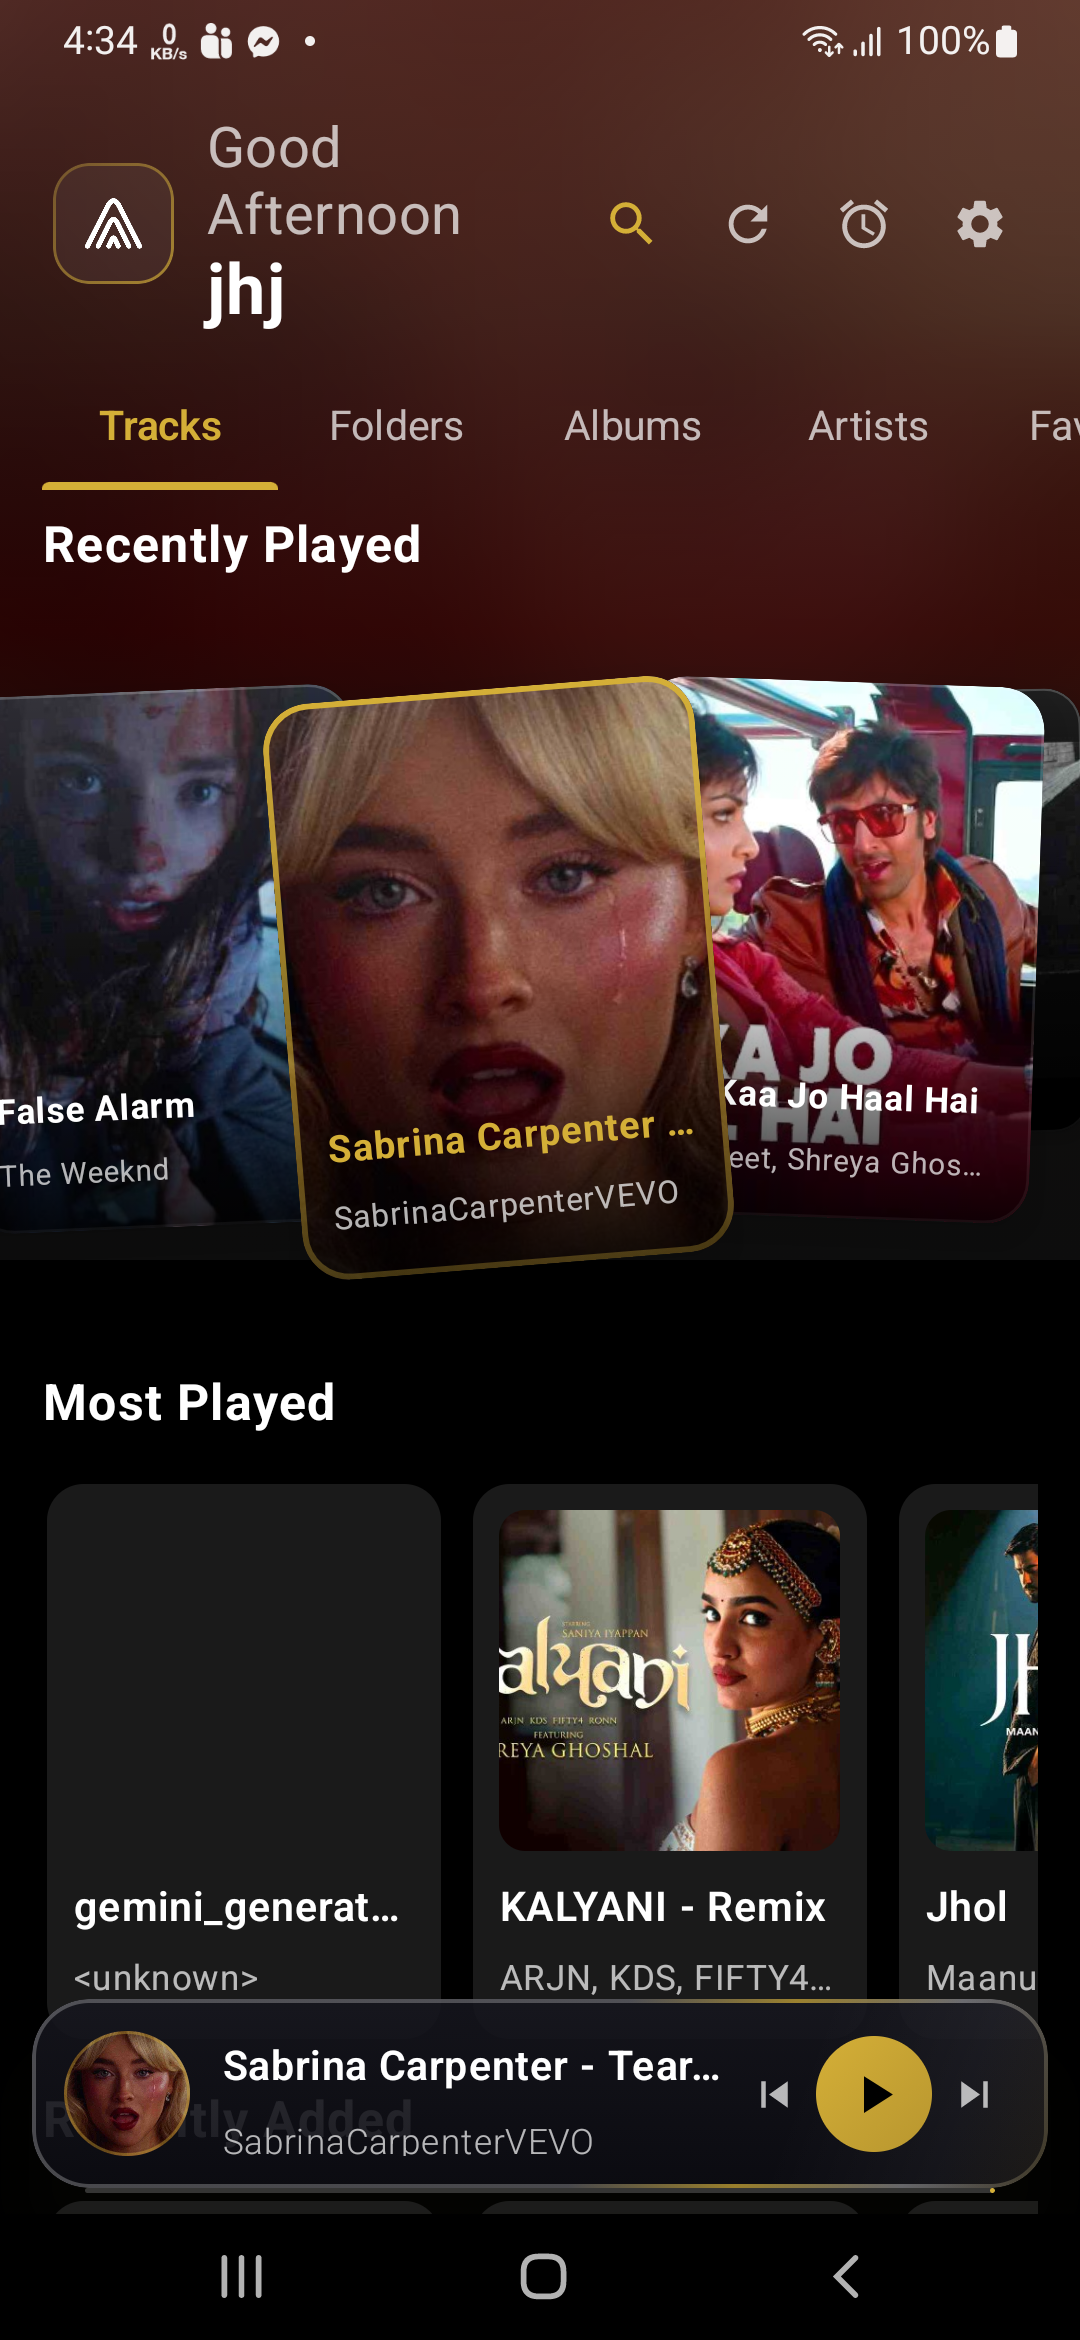
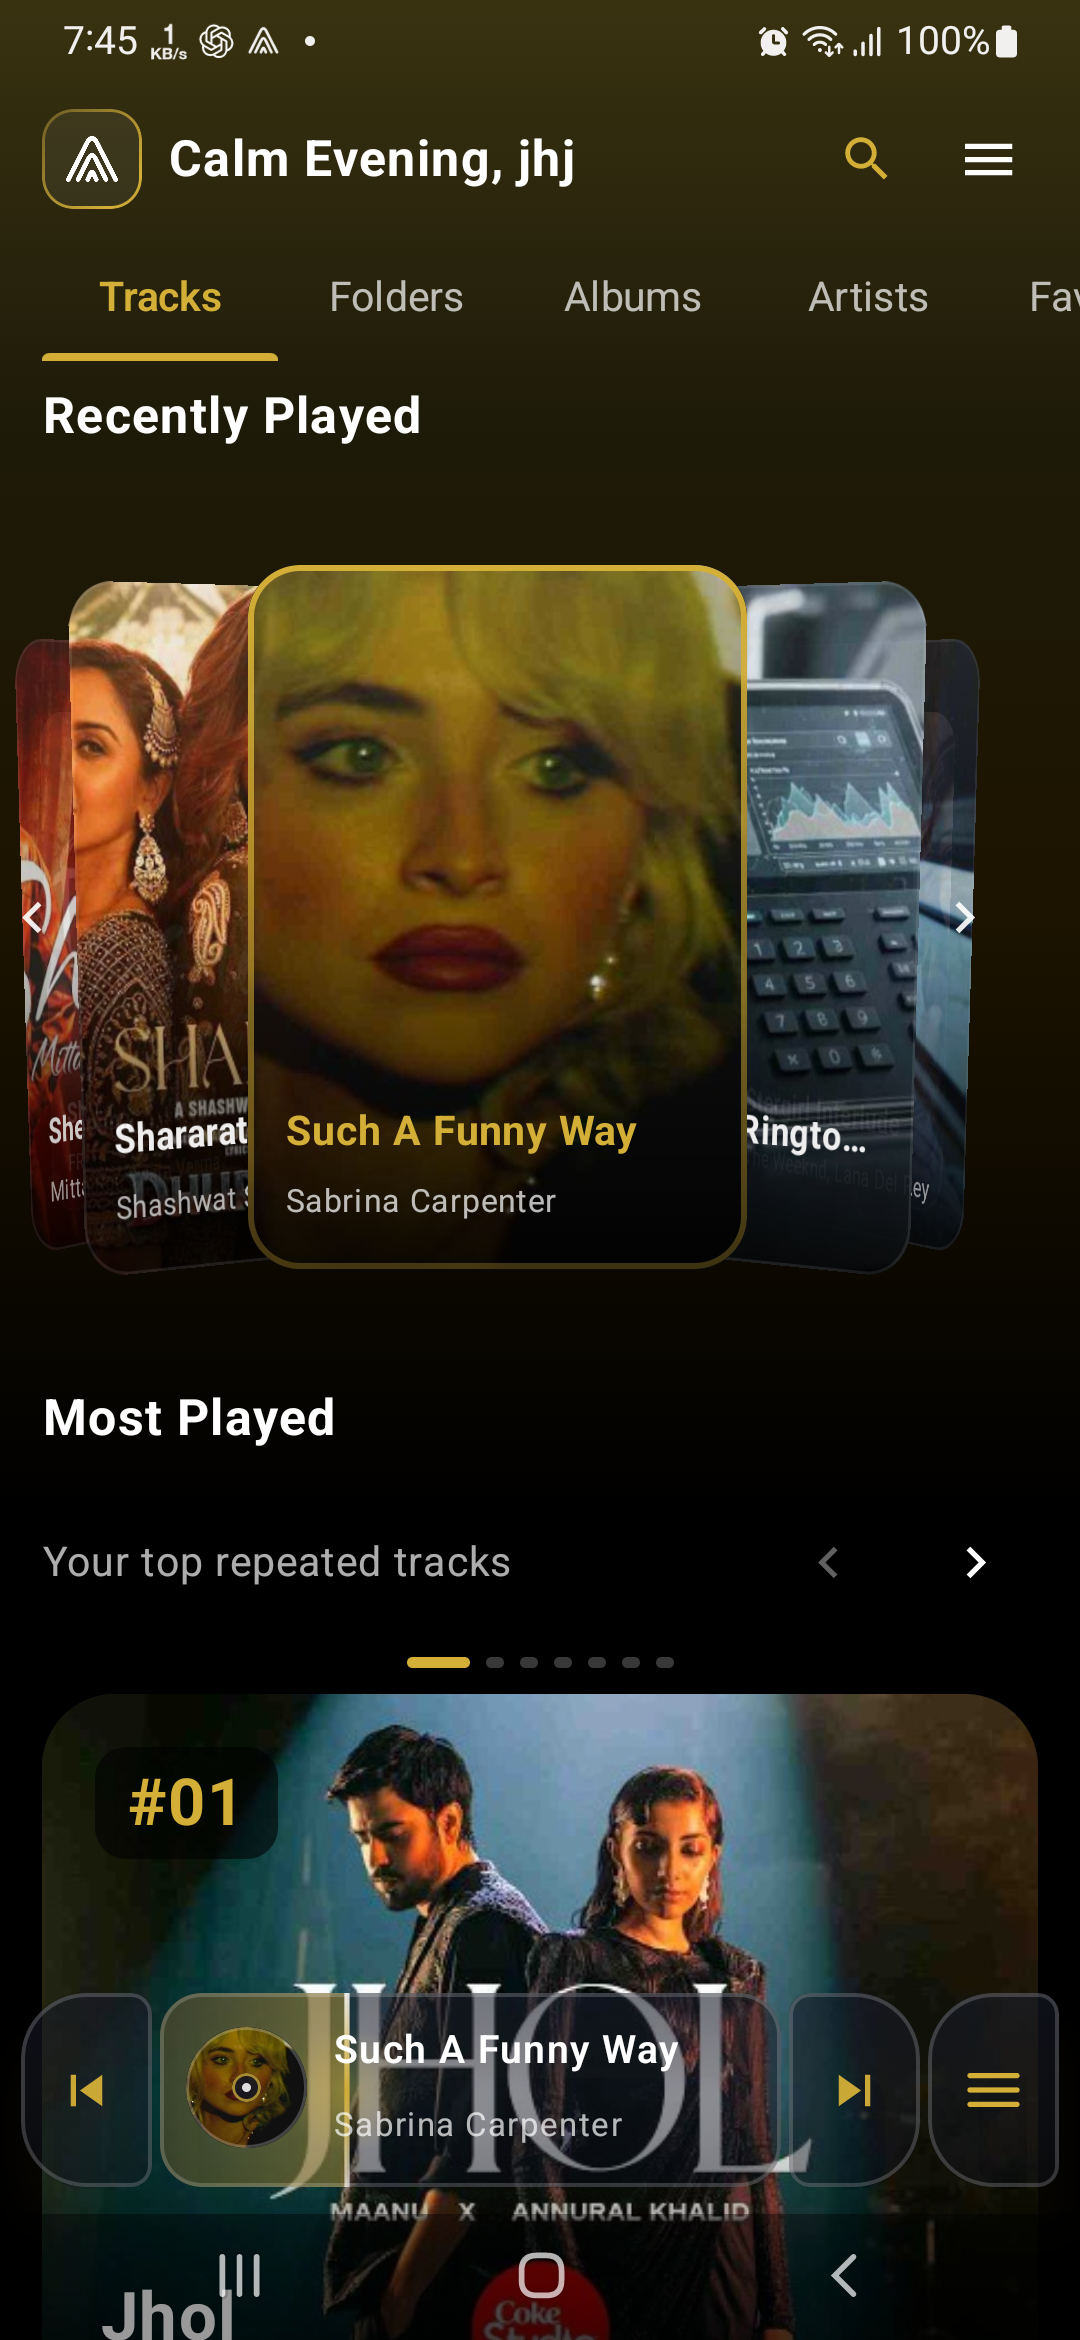
feat(showcase): update live device screenshots and showcase README for v9.1.0 Liquid Glass release

diff --git a/README.md b/README.md
@@ -3,11 +3,11 @@
 </p>
 
 <p align="center">
-  <a href="https://github.com/TanjilHasan-Himel/app/releases/latest"><img src="https://img.shields.io/badge/Release-v9.0.77-D4AF37?style=for-the-badge&logo=android&logoColor=white" alt="Latest Release"></a>
+  <a href="https://github.com/TanjilHasan-Himel/app/releases/latest"><img src="https://img.shields.io/badge/Release-v9.1.0-D4AF37?style=for-the-badge&logo=android&logoColor=white" alt="Latest Release"></a>
   <img src="https://img.shields.io/badge/Platform-Android_8.0+-3DDC84?style=for-the-badge&logo=android&logoColor=white" alt="Android 8.0+">
   <img src="https://img.shields.io/badge/Engine-Media3_ExoPlayer-FF6F00?style=for-the-badge" alt="Media3 ExoPlayer">
   <img src="https://img.shields.io/badge/UI-Jetpack_Compose_1.7+-4285F4?style=for-the-badge&logo=jetpackcompose&logoColor=white" alt="Jetpack Compose">
-  <img src="https://img.shields.io/badge/Size-3.25_MB-blue?style=for-the-badge" alt="Size 3.25MB">
+  <img src="https://img.shields.io/badge/Size-3.3_MB-blue?style=for-the-badge" alt="Size 3.3MB">
   <img src="https://img.shields.io/badge/Architecture-Closed--Source_App-9C27B0?style=for-the-badge" alt="Closed Source App">
   <img src="https://img.shields.io/badge/Privacy-100%25_Offline-00E676?style=for-the-badge" alt="Privacy First">
   <img src="https://img.shields.io/badge/Ads-Zero_Ads-red?style=for-the-badge" alt="Zero Ads">
@@ -28,7 +28,7 @@
 
 <p align="center">
   <a href="https://github.com/TanjilHasan-Himel/app/releases">
-    <img src="https://img.shields.io/badge/📥_Download_Latest_APK-v9.0.77-gold?style=for-the-badge&labelColor=1a1a1a" height="44">
+    <img src="https://img.shields.io/badge/📥_Download_Latest_APK-v9.1.0-gold?style=for-the-badge&labelColor=1a1a1a" height="44">
   </a>
 </p>
 
@@ -36,9 +36,9 @@
 
 ## 🌟 Overview
 
-**Audia Player** (formerly *PlayTime*) is a next-generation, high-performance offline music player built for modern Android devices. Designed from the ground up with **Jetpack Compose 1.7+** and **AndroidX Media3**, Audia merges glassmorphic aesthetics, sound-reactive ambient bloom, and an audiophile-grade playback engine without advertisements, telemetry, or battery drain.
+**Audia Player** is a next-generation, high-performance offline music player and audio workstation engineered for modern Android devices. Built entirely from the ground up using **Jetpack Compose 1.7+** and **AndroidX Media3**, Audia combines glassmorphic aesthetics, sound-reactive ambient bloom, and an audiophile-grade playback engine — with **zero advertisements, zero background trackers, and zero telemetry**.
 
-Whether you're listening to high-resolution FLAC audio, following along with millisecond-accurate synchronized lyrics, looping complex solos with the precision A-B looper, or inspecting acoustic metadata in the Song Garage, Audia is crafted for true audio enthusiasts.
+From high-resolution 24-bit/192kHz FLAC playback to millisecond-synchronized lyrics, musician-grade A-B looping, real-time Biquad DSP equalization, global internet radio streaming, and a signature **modular 4-piece floating liquid glass mini-player**, Audia is purpose-built for listeners who demand uncompromised fidelity and craftsmanship.
 
 ---
 
@@ -48,38 +48,38 @@ Whether you're listening to high-resolution FLAC audio, following along with mil
   <table>
     <tr>
       <td align="center" width="25%">
-        <strong>🎨 Now Playing & Stage</strong><br><br>
-        <img src="assets/screenshots/player_screen.png" alt="Player Screen" width="220">
+        <strong>📀 Home & Liquid MiniPlayer</strong><br><br>
+        <img src="assets/screenshots/home_screen.png" alt="Home Screen & 4-Piece Liquid Glass MiniPlayer" width="220">
+      </td>
+      <td align="center" width="25%">
+        <strong>🎨 Now Playing & Bloom Stage</strong><br><br>
+        <img src="assets/screenshots/player_screen.png" alt="Now Playing Screen" width="220">
       </td>
       <td align="center" width="25%">
         <strong>📜 Real-Time Synced Lyrics</strong><br><br>
-        <img src="assets/screenshots/lyrics_screen.png" alt="Lyrics Mode" width="220">
+        <img src="assets/screenshots/lyrics_screen.png" alt="Synced Lyrics Mode" width="220">
       </td>
       <td align="center" width="25%">
-        <strong>📀 Home & Turntable Feed</strong><br><br>
-        <img src="assets/screenshots/home_screen.png" alt="Home Screen" width="220">
-      </td>
-      <td align="center" width="25%">
-        <strong>🔁 Precision A-B Looper</strong><br><br>
-        <img src="assets/screenshots/loop_presets.png" alt="A-B Loop Presets" width="220">
+        <strong>🎛 Equalizer & Biquad DSP Curve</strong><br><br>
+        <img src="assets/screenshots/loop_presets.png" alt="Equalizer & DSP Curve" width="220">
       </td>
     </tr>
     <tr>
       <td align="center" width="25%">
-        <strong>🛠 Song Garage & Inspector</strong><br><br>
-        <img src="assets/screenshots/song_garage.png" alt="Song Garage" width="220">
+        <strong>🛠 Musician Tools & Audio Inspector</strong><br><br>
+        <img src="assets/screenshots/song_garage.png" alt="Song Garage & Musician Tools" width="220">
       </td>
       <td align="center" width="25%">
-        <strong>🌙 Zen Bedtime Mode</strong><br><br>
-        <img src="assets/screenshots/zen_mode.png" alt="Zen Bedtime Mode" width="220">
+        <strong>📋 Floating Frosted Quick-Queue</strong><br><br>
+        <img src="assets/screenshots/queue_screen.png" alt="Floating Quick-Queue Overlay" width="220">
       </td>
       <td align="center" width="25%">
-        <strong>📋 Live Queue & Reorder</strong><br><br>
-        <img src="assets/screenshots/queue_screen.png" alt="Queue Management" width="220">
+        <strong>🔍 Instant Library Search & Filter</strong><br><br>
+        <img src="assets/screenshots/search_screen.png" alt="Instant Library Search" width="220">
       </td>
       <td align="center" width="25%">
-        <strong>🔍 Instant Library Search</strong><br><br>
-        <img src="assets/screenshots/search_screen.png" alt="Search & Filtering" width="220">
+        <strong>🌙 Minimal Zen Bedtime Mode</strong><br><br>
+        <img src="assets/screenshots/zen_mode.png" alt="Zen Minimal Mode" width="220">
       </td>
     </tr>
   </table>
@@ -92,21 +92,36 @@ Whether you're listening to high-resolution FLAC audio, following along with mil
 | Dimension | Audia Player 🎵 | Standard Offline Players 📻 | Cloud Streaming Apps ☁ |
 | :--- | :---: | :---: | :---: |
 | **Privacy & Telemetry** | **100% Offline (Zero Tracking)** | Offline only | Cloud Tracking & User Profiling |
-| **Advertisements** | **Zero Ads Forever** | Banner Ads / In-App Purchases | Subscriptions / Audio Interruptions |
-| **Synced Lyrics** | **Millisecond Accurate (LRCLIB)** | None or Manual `.lrc` | Paywalled / Network Dependent |
+| **Advertisements** | **Zero Ads Forever** | Banner Ads / Interstitials | Audio Ads / Paid Subscriptions |
+| **MiniPlayer Architecture** | **Modular 4-Piece Floating Liquid Glass** | Static single bottom bar | Generic anchored bar |
+| **In-Button Progress Fill** | **Fluid Theme-Reactive Gradient Fill** | Basic horizontal line | Basic seekbar |
+| **Light Dynamics** | **Unified Continuous Travelling Shimmer** | None | None |
+| **Quick-Queue Access** | **Floating Frosted Card Overlay** | Full screen switch | Full screen switch |
+| **Synced Lyrics** | **Millisecond Accurate (LRCLIB)** | None or manual `.lrc` | Paywalled / Network Bound |
 | **Musician A-B Looper** | **Built-in with Named Presets** | Rare / None | Unavailable |
-| **Acoustic Specs Inspector** | **Built-in Song Garage** | Basic ID3 Tag only | Hidden / Transcoded Audio |
-| **Audio Engine** | **AndroidX Media3 (ExoPlayer)** | Legacy `MediaPlayer` | Proprietary Closed DRM |
-| **Memory Footprint** | **Ultra-Lightweight (~3.25 MB)** | 25 MB – 80 MB | 120 MB+ |
-| **Lock Screen Controls** | **Android 11–15 Media3 Session** | Partial or Glitchy | Standard |
+| **Audio Processing** | **Biquad DSP + 5-Band Parametric EQ** | Generic Android Equalizer | Fixed audio processing |
+| **Global Radio** | **Integrated Free Radio-Browser** | Requires separate app | Geoblocked / Subscription |
+| **Memory Footprint** | **Ultra-Lightweight (~3.3 MB APK)** | 25 MB – 80 MB | 120 MB+ |
+| **System Compatibility** | **Android 8.0 – 15 Media3 Session** | Partial or Glitchy | Standard |
 
 ---
 
-## ✨ Key Features & Capabilities
+## ✨ Key Features & Architectural Innovations
+
+### 💎 Modular 4-Piece Floating Liquid Glass MiniPlayer
+Audia introduces an industry-first decoupled miniplayer architecture built with custom Compose canvas graphics, translucent frosted sapphire glass, and organic physics:
+- **Modular 4-Piece Separation:** The miniplayer is split into four distinct interactive units:
+  1. **Left Arc `(|`:** Skip previous track with spring bounce physics.
+  2. **Center Deck:** Rotating vinyl artwork, song metadata, vertical swipe-to-open gesture, and tap-to-toggle playback.
+  3. **Right Arc `|)`:** Skip next track with symmetrical inverse curve.
+  4. **Queue Arc `(|`:** Dedicated quick-queue button with gold hamburger badge.
+- **Dynamic In-Button Liquid Theme Progress Fill:** Legacy bottom line progress bars have been replaced with an organic in-button progress fill. As the song plays, a theme-tinted translucent gradient fills the entire body of the center deck from left to right, guided by a vertical glowing crest beam and ambient halo.
+- **Unified Continuous Travelling Light Beam:** A single physical light shimmer beam sweeps continuously across all 4 independent pieces, dynamically calculating global horizontal distance. When the beam passes over each piece, its translucent border and drop-shadow glow flare up in real time.
+- **True Floating Island Overlay:** Floats above scrollable lists with 40–60% translucent dark sapphire glass, allowing song cards and album artwork to glide visibly underneath.
+- **Floating Quick-Queue Card:** Tapping the queue arc reveals a frosted glass overlay directly above the miniplayer, displaying the next upcoming tracks with instant tap-to-play and a fluid swipe-down dismiss gesture.
 
 ### 🎨 Adaptive Fluid Stage & Reactive Bloom
-- **Dynamic Ambient Bloom:** Extracts dominant and secondary vibrant hues from album artwork using Palette analysis to generate a rich, breathing background glow.
-- **Custom Arch Morph Button:** Iconic signature Arch Play/Pause button that smoothly morphs into a circular geometry during playback.
+- **Dynamic Ambient Bloom:** Extracts dominant and vibrant hues from album artwork using Palette analysis to generate a rich, breathing background glow.
 - **Real-Time FFT Visualizer:** Audio-reactive ambient lighting tuned to bass frequencies and sound energy.
 - **Responsive Multi-Screen Architecture:** Fluidly scales across compact screens (16:9, 18:9), modern tall ratios, foldable devices, and 3-button navigation layouts.
 
@@ -114,23 +129,28 @@ Whether you're listening to high-resolution FLAC audio, following along with mil
 - **Millisecond Precision:** Instant karaoke-style synchronized lyrics powered by the LRCLIB network API.
 - **Stable 48dp Slot:** Strictly deterministic preview slot height prevents track titles, progress bars, and playback buttons from jumping.
 - **Full-Screen Stage:** Tap any preview lyric to enter edge-to-edge immersive lyrics mode with automatic auto-scroll and manual seek navigation.
-- **Offline Storage:** Downloaded lyrics are cached in a local database for instant offline access.
+- **Offline Storage:** Downloaded lyrics are cached in a local Room database for instant offline access.
+
+### 🎛 Biquad DSP Equalizer & Acoustic Architecture
+- **5-Band Parametric Equalizer:** Precise frequency shaping across low, mid, and high frequencies.
+- **Real-Time DSP Response Curve:** Visualizes the acoustic response curve live as you adjust frequency bands.
+- **Bass Boost & 3D Spatial Virtualizer:** Hardware-accelerated audio effects tuned for both wired studio monitors and wireless Bluetooth headphones.
+
+### 📻 Global Internet Radio Engine
+- **Radio-Browser Directory:** Stream thousands of free, public radio stations across every genre and country worldwide.
+- **Low-Latency Streaming:** Native Media3 ExoPlayer stream buffering with instant metadata display.
 
 ### 🔁 Musician-Grade A-B Looper & Presets
 - **Precision Looping:** Set millisecond-accurate start (A) and end (B) loop points on any track.
-- **Permanent Named Presets:** Save and name custom loops (guitar riffs, vocal phrases, dance practice routines) to local storage.
+- **Permanent Named Presets:** Save and name custom loops (guitar solos, vocal phrases, choreography routines) to local storage.
 
 ### 🛠 Song Garage & Audio Inspector
 - **Lossless Quality Detection:** Automatic detection and visual badging for FLAC, Hi-Res 24-bit/96kHz, WAV, AAC, and MP3.
 - **Technical Specs Inspector:** Real-time visibility into bitrate, sample rate, bit depth, channel configuration, and container details.
-- **Built-in Audio Trimmer & Tag Editor:** Edit track metadata and extract custom audio clips on-device.
-
-### 🎚 Sound Processing & Effects
-- **10-Band Graphic Equalizer** with genre presets and user curve saving.
-- **Acoustic Enhancements:** Bass Boost, Virtualizer, and Loudness Enhancer for headphones and speakers.
+- **Built-in Tag Editor:** Edit track metadata directly on-device.
 
 ### 🌙 Zen Bedtime Mode & Smart Sleep Timer
-- **Zen Ambient Screen:** Distraction-free night listening mode with dim visualizer.
+- **Zen Ambient Screen:** Minimalist, distraction-free night listening mode with dim visualizer.
 - **Smart Sleep Timer:** Gentle volume fade-out with optional "Stop playback after current song" toggle.
 
 ---
@@ -149,6 +169,9 @@ Audia utilizes native 32-bit floating point audio decoding via AndroidX Media3:
 
 | Action | Gesture | Description |
 | :--- | :--- | :--- |
+| **Open Full Player** | **Swipe Up MiniPlayer** | Swipe up on the center deck to open the full now-playing stage |
+| **Toggle Quick-Queue** | **Tap Queue Arc `(|`** | Opens floating frosted quick-queue overlay directly above miniplayer |
+| **Dismiss Quick-Queue** | **Swipe Down Overlay** | Drag downward on the quick-queue card or tap close button |
 | **Seek ±5s** | **Double-Tap Margin** | Double-tap left margin for `-5s`, right margin for `+5s` with floating ripple badge |
 | **Continuous Seek** | **Rapid Taps** | Rapid subsequent taps accumulate seek (`±10s`, `±15s`, `±20s`) |
 | **Toggle Lyrics Mode** | **Tap Lyrics / Art** | Single tap on the lyric line or artwork opens full-screen lyrics mode |
@@ -164,12 +187,14 @@ Audia utilizes native 32-bit floating point audio decoding via AndroidX Media3:
 | Category | Technology |
 | :--- | :--- |
 | **Language** | Kotlin 2.0+ |
-| **UI Framework** | Jetpack Compose 1.7+, Material 3, Custom Canvas Drawing |
+| **UI Framework** | Jetpack Compose 1.7+, Material 3, Custom Canvas Drawing & Shaders |
 | **Audio Engine** | AndroidX Media3 (`ExoPlayer`, `MediaSessionService`, `MediaBrowserService`) |
+| **DSP Processing** | Biquad Audio Filter Matrix + Android AudioEffect APIs |
 | **Architecture** | MVI / MVVM + Clean Architecture with Kotlin Coroutines & `StateFlow` |
 | **Dependency Injection** | Dagger Hilt |
-| **Local Persistence** | Room Database (Lyrics, Loop Presets, Song Wiki) + DataStore Preferences |
+| **Local Persistence** | Room Database (Lyrics, Loop Presets, Song Wiki, Schedules) + DataStore |
 | **Image Loading** | Coil 2.6+ with dynamic Palette extraction |
+| **Radio Service** | Radio-Browser Network API with resilient failover |
 | **System Compatibility** | Android 8.0 (API 26) through Android 15 (API 35) |
 
 ---
@@ -188,8 +213,19 @@ Audia is distributed as an optimized, signed Android Application Package (`.apk`
 
 ---
 
-## 📋 Changelog (v9.0.77)
+## 📋 Changelog
 
+### Version 9.1.0 (Current)
+- **Modular 4-Piece Liquid Glass MiniPlayer:** Completely redesigned miniplayer into four independent translucent glass components with organic spring physics.
+- **Dynamic In-Button Liquid Progress Fill:** Replaced legacy bottom progress bars with an in-button theme-tinted gradient fill and glowing crest beam.
+- **Unified Travelling Light Beam:** Single continuous shimmer beam calculating global distance across all 4 pieces with dynamic edge flare.
+- **Floating Quick-Queue Frosted Card:** Tap the queue arc to inspect and launch upcoming tracks without losing your browsing position; includes drag-down dismiss gesture.
+- **Equalizer & Biquad DSP Engine:** Added 5-band parametric equalizer with live frequency curve visualization, Bass Boost, and 3D Virtualizer.
+- **Global Internet Radio:** Integrated Radio-Browser directory for live streaming thousands of worldwide stations.
+- **Scheduled Playback Engine:** Added scheduled playback alarm triggers with boot-reschedule worker support.
+- **Floating Island Navigation:** Miniplayer floats above scrollable song feeds with transparent frosted glass backdrop.
+
+### Version 9.0.77
 - **Complete Rebranding:** Transformed from *PlayTime* into **Audia Player**.
 - **Responsive Layout Engine:** Resolved layout clipping and dead vertical space across compact and tall aspect ratio devices.
 - **System Media Controls:** Added full support for Android 11 & 12 lock screen media controls and notification Quick Settings.
@@ -203,9 +239,11 @@ Audia is distributed as an optimized, signed Android Application Package (`.apk`
 ## 🗺 Product Roadmap
 
 - [x] Full Android 14/15 edge-to-edge support & Media3 lock screen controls
-- [x] Real-time synced lyrics with offline caching
+- [x] Real-time synced lyrics with offline caching (LRCLIB)
 - [x] Precision A-B Looper with named presets
-- [ ] Global FM & Web Radio integration (Radio-Browser API)
+- [x] Modular 4-piece liquid glass miniplayer with travelling light beam
+- [x] High-precision Biquad DSP Equalizer with live response curve
+- [x] Global Web Radio integration (Radio-Browser API)
 - [ ] Online music search and streaming integration
 - [ ] Android Auto playback support
 - [ ] Desktop companion app (Compose Multiplatform)
